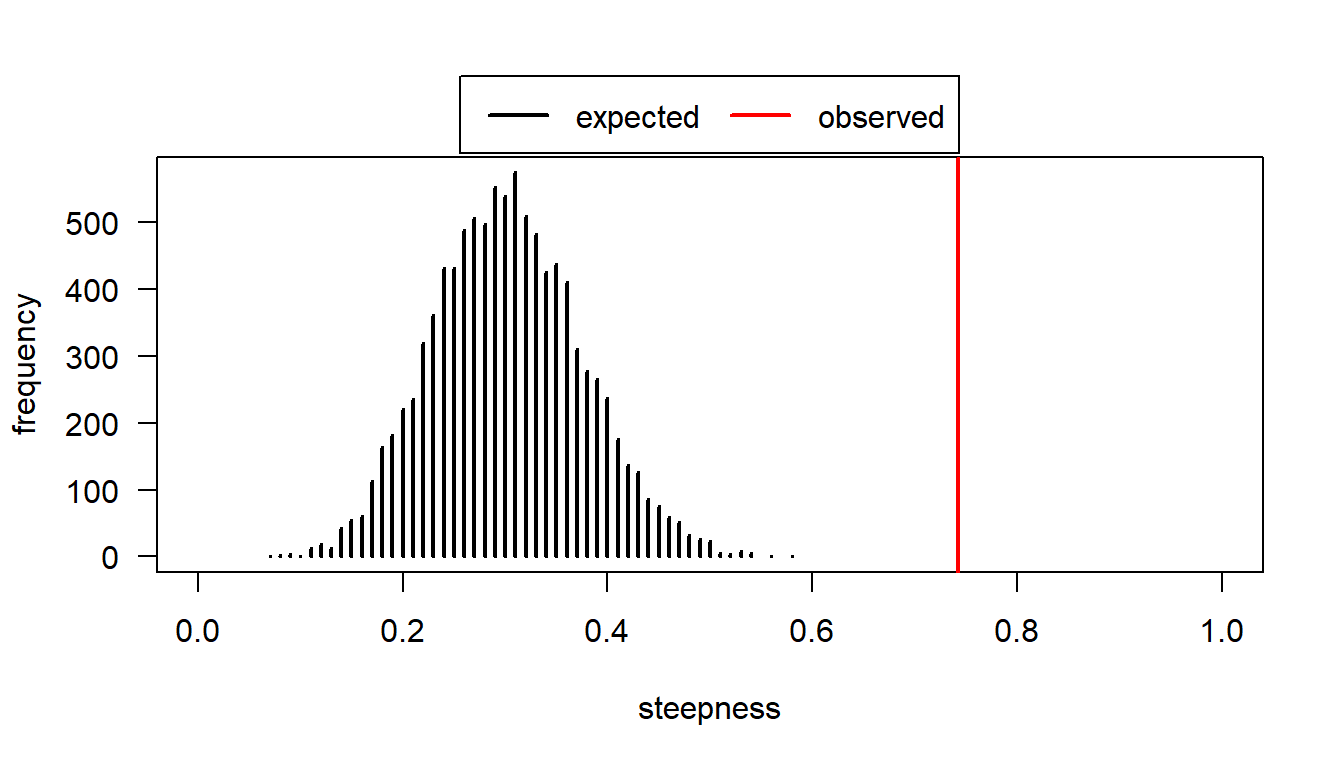
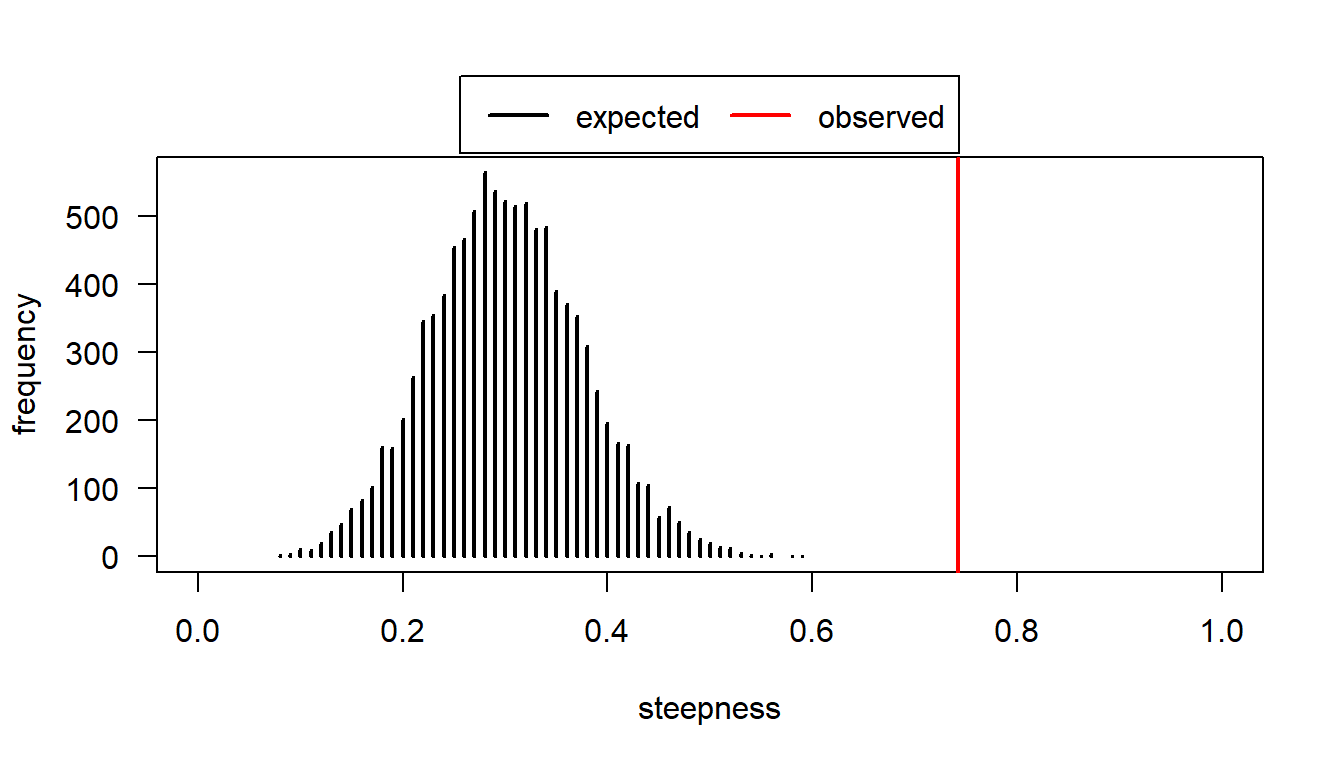
2/2の更新

diff --git a/docs/linearityを表す指標の算出.html b/docs/linearityを表す指標の算出.html
@@ -281,7 +281,7 @@ h&#39; = h + \frac{6}{N^3 - N} \times u
 <div class="sourceCode" id="cb19"><pre class="sourceCode r"><code class="sourceCode r"><span id="cb19-1"><a href="linearityを表す指標の算出.html#cb19-1" tabindex="-1"></a>EloRating<span class="sc">::</span><span class="fu">h.index</span>(mat, <span class="at">loops =</span> <span class="dv">1000</span>)</span></code></pre></div>
 <div data-pagedtable="false">
 <script data-pagedtable-source type="application/json">
-{"columns":[{"label":["variable"],"name":[1],"type":["chr"],"align":["left"]},{"label":["value"],"name":[2],"type":["dbl"],"align":["right"]}],"data":[{"1":"N","2":"9.0000"},{"1":"h index","2":"0.9667"},{"1":"h' index","2":"0.9667"},{"1":"expected h","2":"0.2932"},{"1":"p right","2":"0.0010"},{"1":"randomizations","2":"1000.0000"},{"1":"tied","2":"0.0000"},{"1":"unknown","2":"0.0000"}],"options":{"columns":{"min":{},"max":[10]},"rows":{"min":[10],"max":[10]},"pages":{}}}
+{"columns":[{"label":["variable"],"name":[1],"type":["chr"],"align":["left"]},{"label":["value"],"name":[2],"type":["dbl"],"align":["right"]}],"data":[{"1":"N","2":"9.0000"},{"1":"h index","2":"0.9667"},{"1":"h' index","2":"0.9667"},{"1":"expected h","2":"0.3042"},{"1":"p right","2":"0.0010"},{"1":"randomizations","2":"1000.0000"},{"1":"tied","2":"0.0000"},{"1":"unknown","2":"0.0000"}],"options":{"columns":{"min":{},"max":[10]},"rows":{"min":[10],"max":[10]},"pages":{}}}
   </script>
 </div>
 <p><br/></p>
@@ -292,7 +292,7 @@ h&#39; = h + \frac{6}{N^3 - N} \times u
 <span id="cb20-4"><a href="linearityを表す指標の算出.html#cb20-4" tabindex="-1"></a>EloRating<span class="sc">::</span><span class="fu">h.index</span>(mat4, <span class="at">loops =</span> <span class="dv">1000</span>)</span></code></pre></div>
 <div data-pagedtable="false">
 <script data-pagedtable-source type="application/json">
-{"columns":[{"label":["variable"],"name":[1],"type":["chr"],"align":["left"]},{"label":["value"],"name":[2],"type":["dbl"],"align":["right"]}],"data":[{"1":"N","2":"9.0000"},{"1":"h index","2":"0.5333"},{"1":"h' index","2":"0.5583"},{"1":"expected h","2":"0.3053"},{"1":"p right","2":"0.0880"},{"1":"randomizations","2":"1000.0000"},{"1":"tied","2":"3.0000"},{"1":"unknown","2":"3.0000"}],"options":{"columns":{"min":{},"max":[10]},"rows":{"min":[10],"max":[10]},"pages":{}}}
+{"columns":[{"label":["variable"],"name":[1],"type":["chr"],"align":["left"]},{"label":["value"],"name":[2],"type":["dbl"],"align":["right"]}],"data":[{"1":"N","2":"9.0000"},{"1":"h index","2":"0.5333"},{"1":"h' index","2":"0.5583"},{"1":"expected h","2":"0.3001"},{"1":"p right","2":"0.0680"},{"1":"randomizations","2":"1000.0000"},{"1":"tied","2":"3.0000"},{"1":"unknown","2":"3.0000"}],"options":{"columns":{"min":{},"max":[10]},"rows":{"min":[10],"max":[10]},"pages":{}}}
   </script>
 </div>
 </div>
@@ -345,7 +345,7 @@ t_{tri} = 4(P_t - 0.75)
 <p>交渉が見られないダイアッドを含む<code>mat4</code>で算出すると以下のようになる。やはり<span class="math inline">\(h&#39;\)</span>よりも値が若干高い。</p>
 <div class="sourceCode" id="cb23"><pre class="sourceCode r"><code class="sourceCode r"><span id="cb23-1"><a href="linearityを表す指標の算出.html#cb23-1" tabindex="-1"></a>EloRating<span class="sc">::</span><span class="fu">transitivity</span>(mat4, <span class="at">runs =</span> <span class="dv">5000</span>)</span></code></pre></div>
 <pre><code>##       Pt     ttri        p     runs 
-##    0.891    0.565    0.021 5000.000</code></pre>
+##    0.891    0.565    0.023 5000.000</code></pre>
 
 </div>
 </div>

diff --git a/docs/elo-ratingの算出.html b/docs/elo-ratingの算出.html
@@ -352,8 +352,8 @@ Figure 4: 交渉の種類を考慮した場合のElo-rating
 </p>
 </div>
 </div>
-<div id="事前の情報の考慮する場合" class="section level4 hasAnchor">
-<h4>4.2.1.3 事前の情報の考慮する場合<a href="elo-ratingの算出.html#事前の情報の考慮する場合" class="anchor-section" aria-label="Anchor link to header"></a></h4>
+<div id="事前情報を考慮する場合" class="section level4 hasAnchor">
+<h4>4.2.1.3 事前情報を考慮する場合<a href="elo-ratingの算出.html#事前情報を考慮する場合" class="anchor-section" aria-label="Anchor link to header"></a></h4>
 <p>Elo-ratingは、データ収集の開始時点では全ての個体のレーティングが等しいと仮定され、それを実際の交渉の結果によって更新していく。しかし、これは集団が新たに形成された場合は適切であるが、集団がデータ収集前から存在している場合には妥当ではない<span class="citation">(<a href="#ref-Newton-Fisher2017">Newton-Fisher 2017</a>)</span>。また、Elo-ratingが実際の優劣関係と一致するためには、交渉数が十分に蓄積する時点までburn-in期間と呼ばれる期間が必要である<span class="citation">(<a href="#ref-Albers2001">Albers and Vries 2001</a>; <a href="#ref-Neumann2011">Neumann et al. 2011</a>)</span>。この期間のElo-ratingは信頼性が低く、分析などに使用することができない<span class="citation">(<a href="#ref-Newton-Fisher2017">Newton-Fisher 2017</a>)</span>。</p>
 <p>これらの問題を解決するため、 <span class="citation">Newton-Fisher (<a href="#ref-Newton-Fisher2017">2017</a>)</span> は<strong>事前に個体間の優劣関係についてわかっている情報をElo-ratingの算出に用いる</strong>ことを提案している。この方法を用いれば、データ収集の開始時点から個体間のレーティングが全く同じになることはなく、またburn-in期間を短縮できる可能性がある。</p>
 <p>事前に個体間の優劣関係(e.g., 順位など)が分かっているとき、開始時点の個体<span class="math inline">\(i\)</span>のElo-ratingは以下のように定義される<span class="citation">(<a href="#ref-Newton-Fisher2017">Newton-Fisher 2017</a>)</span>。<span class="math inline">\(S_e\)</span>は事前の情報がない場合の開始時点のレーティング(デフォルトは1000)、<span class="math inline">\(x_r\)</span>は事前情報で分かっている全個体の順位の中央値、<span class="math inline">\(S_{ri}\)</span>は事前情報による個体<span class="math inline">\(i\)</span>の順位である<a href="#fn2" class="footnote-ref" id="fnref2"><sup>2</sup></a>。<span class="math inline">\(k\)</span>は前節までと同じで、<span class="math inline">\(l_r\)</span>は事前情報による順位をどの程度反映させるかを決める定数で、0から1の値を指定できる。</p>

diff --git a/docs/steepnessの算出.html b/docs/steepnessの算出.html
@@ -244,13 +244,13 @@ steepnessは<strong>順位序列の厳しさ</strong>を表し、例えば専制
 <p>個体の勝敗がランダムに決まるときに比べて、steepnessが有意に高いかを検定することもできる<span class="citation">(<a href="#ref-deVries2006">De Vries et al. 2006</a>)</span>。検定をする場合、ランダム化を行う回数を<code>nrand =</code>で指定する。今回の場合、<span class="math inline">\(p &lt; 0.001\)</span>となり、有意であることが分かった。</p>
 <div class="sourceCode" id="cb11"><pre class="sourceCode r"><code class="sourceCode r"><span id="cb11-1"><a href="steepnessの算出.html#cb11-1" tabindex="-1"></a>EloRating<span class="sc">::</span><span class="fu">steepness</span>(mat, <span class="at">Dij =</span> <span class="cn">TRUE</span>, <span class="at">nrand =</span> <span class="dv">10000</span>)</span></code></pre></div>
 <pre><code>##        steep     expected            p        nrand 
-## 7.420538e-01 3.012287e-01 1.000000e-04 1.000000e+04</code></pre>
+## 7.420538e-01 3.004903e-01 1.000000e-04 1.000000e+04</code></pre>
 <p><br/></p>
 <p><code>returnfig = TRUE</code>とすると、ランダムに勝敗が決まる場合のsteepnessの分布(<code>extected</code>)と実際のsteepnessの値(<code>expected</code>)をプロットできる。</p>
 <div class="sourceCode" id="cb13"><pre class="sourceCode r"><code class="sourceCode r"><span id="cb13-1"><a href="steepnessの算出.html#cb13-1" tabindex="-1"></a>EloRating<span class="sc">::</span><span class="fu">steepness</span>(mat, <span class="at">Dij =</span> <span class="cn">TRUE</span>, <span class="at">nrand =</span> <span class="dv">10000</span>, <span class="at">returnfig =</span> <span class="cn">TRUE</span>)</span></code></pre></div>
 <p><img src="Dominance-Analysis-Using-R_files/figure-html/unnamed-chunk-11-1.png" width="672" style="display: block; margin: auto auto auto 0;" /></p>
 <pre><code>##        steep     expected            p        nrand 
-## 7.420538e-01 3.020680e-01 1.000000e-04 1.000000e+04</code></pre>
+## 7.420538e-01 3.013294e-01 1.000000e-04 1.000000e+04</code></pre>
 
 </div>
 </div>
